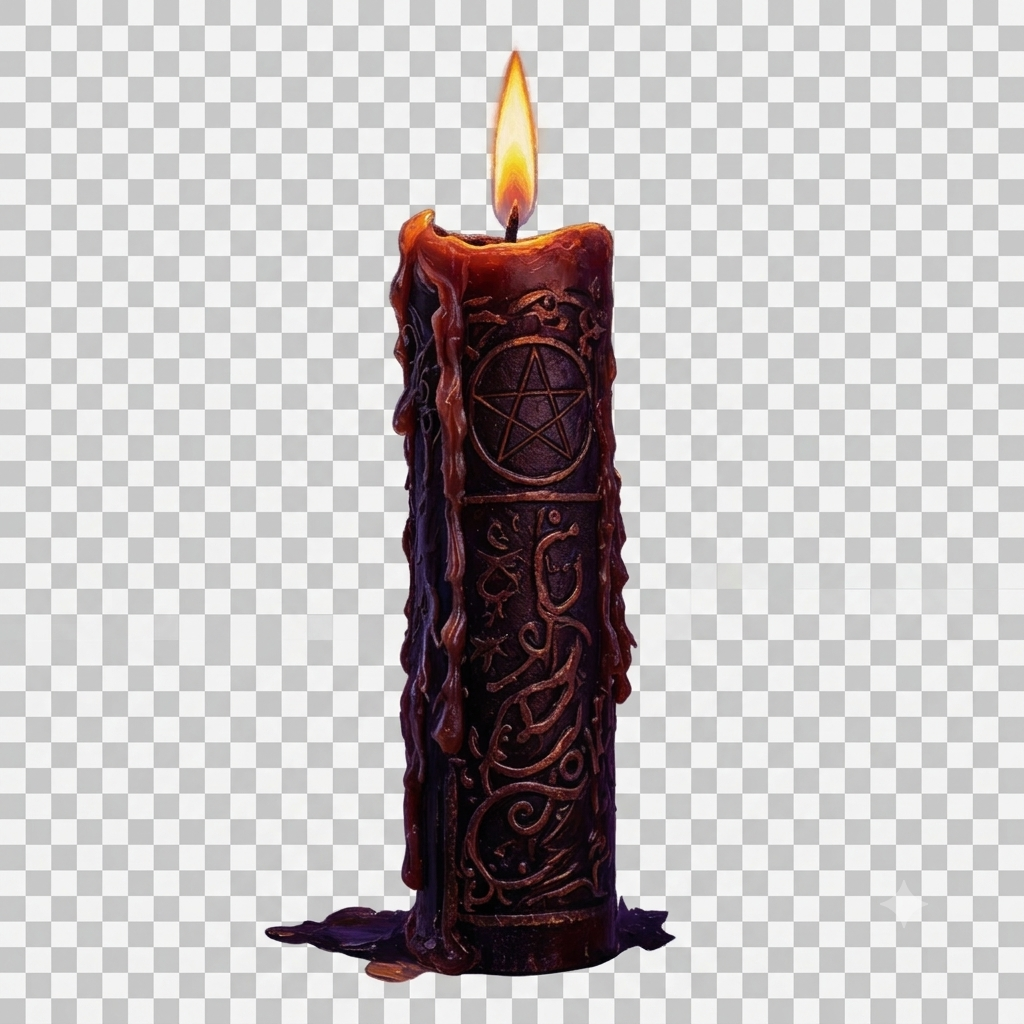
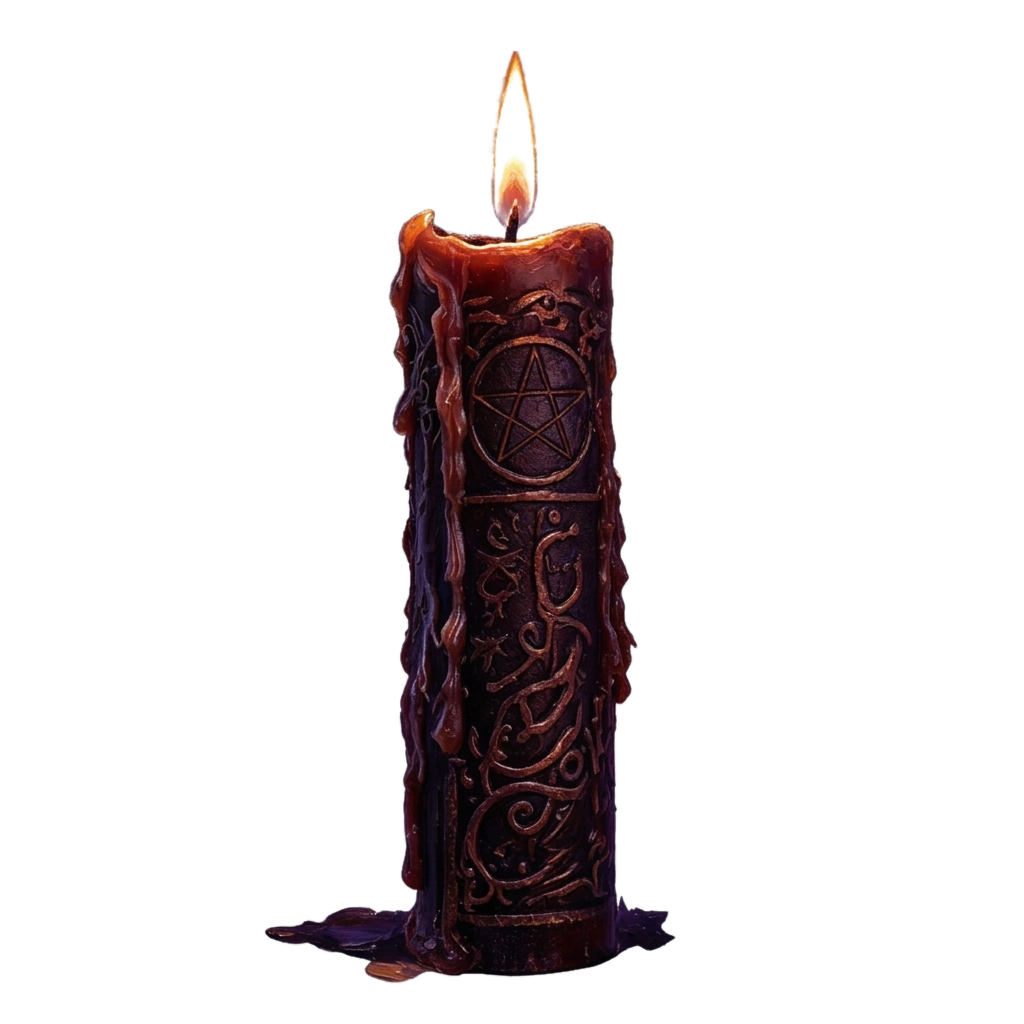
更新了蜡烛

diff --git a/magic_online/magic_online/MAGIC.html b/magic_online/magic_online/MAGIC.html
@@ -31,7 +31,8 @@
     .star { position: absolute; background: #8b7342; border-radius: 50%; animation: twinkle 3s infinite; }
     @keyframes twinkle { 0%,100%{opacity:0.2} 50%{opacity:0.6} }
     @keyframes floatUp { 0%{transform:translateY(720px) rotate(0deg);opacity:0} 10%{opacity:0.4} 90%{opacity:0.4} 100%{transform:translateY(-50px) rotate(360deg);opacity:0} }
-    .candle { animation: float 4s ease-in-out infinite; }
+    .candle-wrapper { animation: float 4s ease-in-out infinite; display:inline-block; }
+    .candle-img { width:48px; height:80px; object-fit:contain; filter:drop-shadow(0 4px 12px rgba(0,0,0,0.5)) drop-shadow(0 0 15px rgba(255,180,50,0.3)); }
     @keyframes float { 0%,100%{transform:translateY(0)} 50%{transform:translateY(-15px)} }
     .btn-magic {
       background: linear-gradient(135deg, #1a0a2e 0%, #2d154e 50%, #1a0a2e 100%);
@@ -62,11 +63,11 @@
   <!-- 主界面 -->
   <div id="mainSection" class="relative z-10 flex flex-col items-center pt-8">
     <div class="flex justify-center gap-12 mb-2">
-      <img src="assets/蜡烛.png" class="candle" style="width:60px;height:90px;object-fit:contain;">
-      <img src="assets/蜡烛.png" class="candle" style="width:60px;height:90px;object-fit:contain;">
-      <img src="assets/蜡烛.png" class="candle" style="width:60px;height:90px;object-fit:contain;">
-      <img src="assets/蜡烛.png" class="candle" style="width:60px;height:90px;object-fit:contain;">
-      <img src="assets/蜡烛.png" class="candle" style="width:60px;height:90px;object-fit:contain;">
+      <div class="candle-wrapper"><img src="assets/蜡烛.png" class="candle-img"></div>
+      <div class="candle-wrapper"><img src="assets/蜡烛.png" class="candle-img"></div>
+      <div class="candle-wrapper"><img src="assets/蜡烛.png" class="candle-img"></div>
+      <div class="candle-wrapper"><img src="assets/蜡烛.png" class="candle-img"></div>
+      <div class="candle-wrapper"><img src="assets/蜡烛.png" class="candle-img"></div>
     </div>
 
     <h1 class="text-5xl font-black tracking-widest mb-1 english-text" style="color:#8b7342;">HOGWARTS</h1>